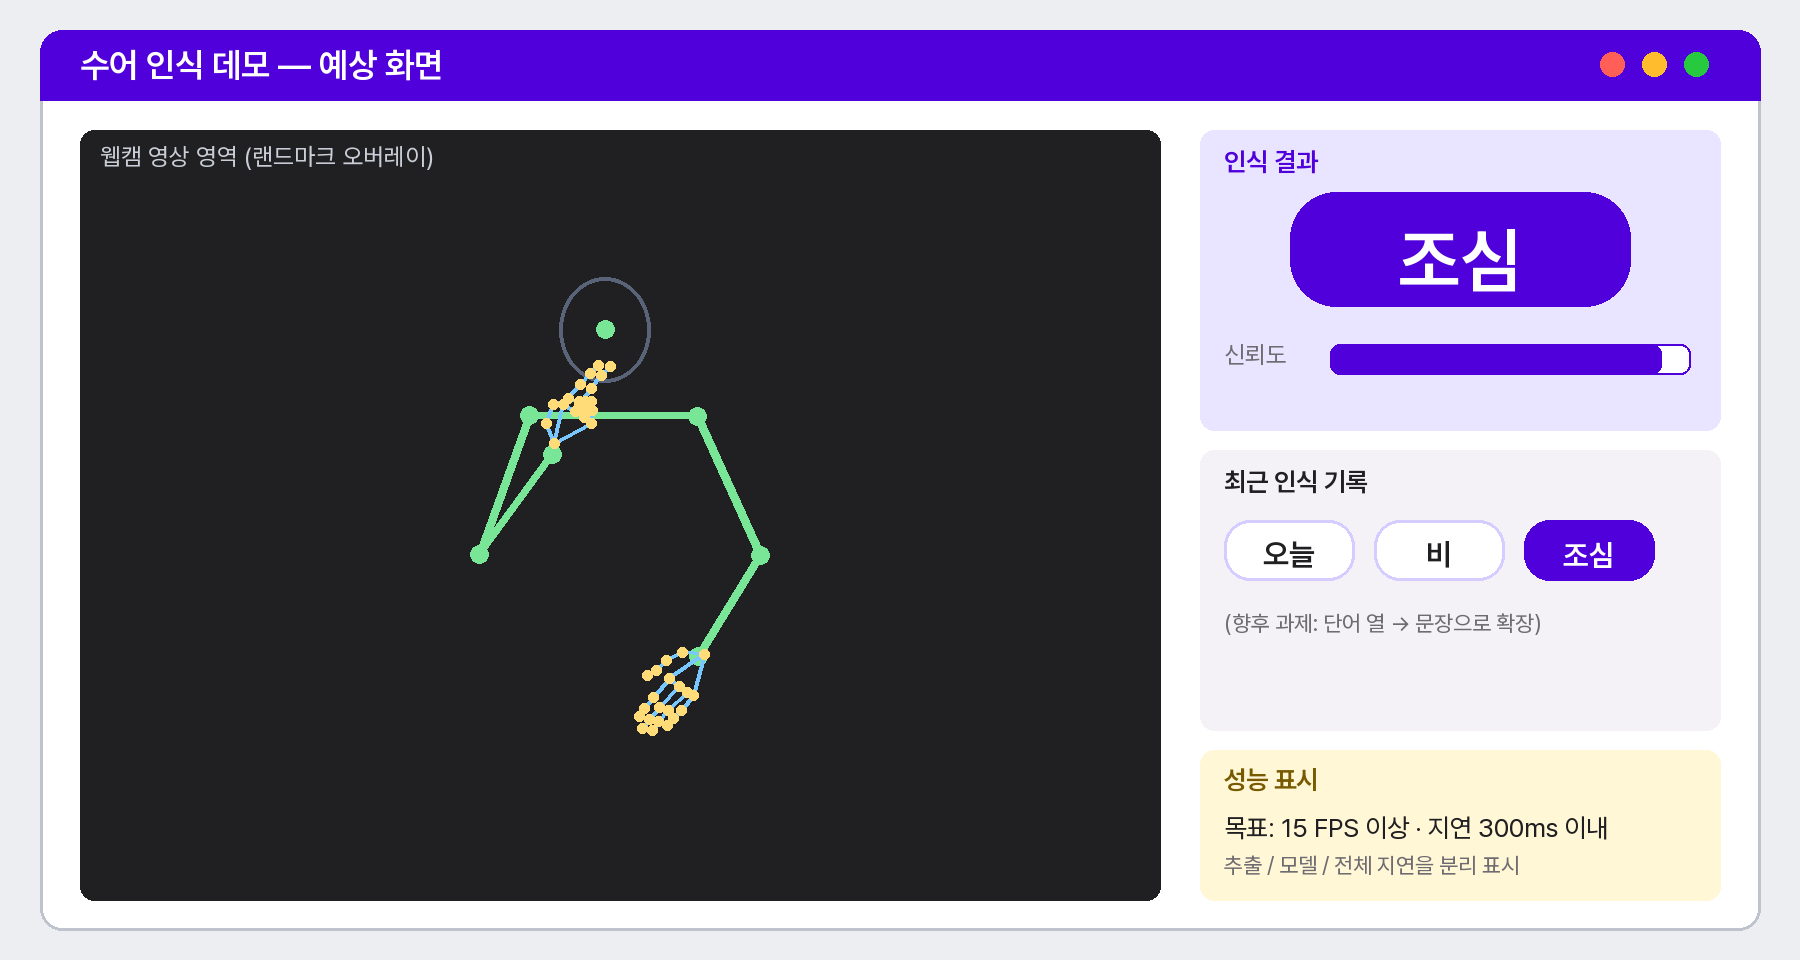
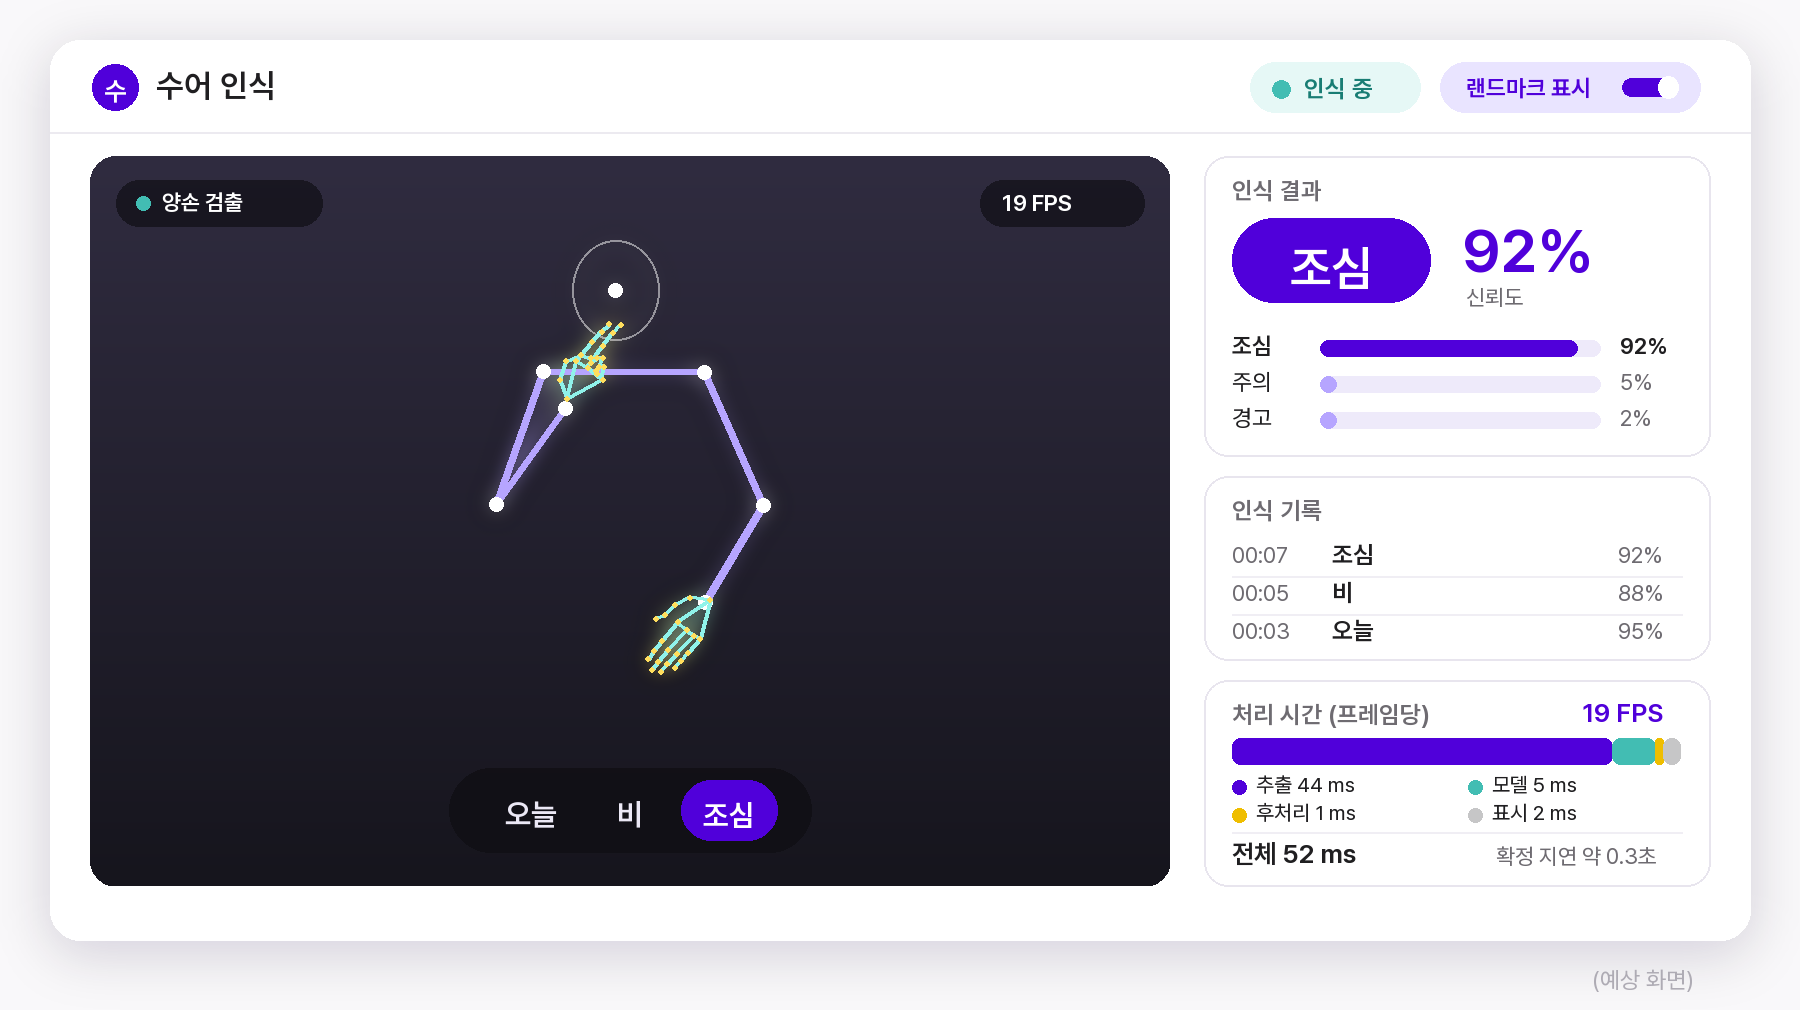
docs(sign-language): 데모 화면 그림을 실제 앱처럼 재설계
화면 안의 안내 문구를 없애고 화면 밖 흐린 괄호 각주만 남겼다. 신뢰도를 %와 상위 3개
예측으로 표시하고, 처리 시간은 추출·모델·후처리·표시로 나눈 실제 파이프라인 구조에
맞췄다. 화면 안 숫자가 예시이며 처리 시간 중 측정한 것과 가정한 것을 문서에 구분했다.

diff --git a/docs/sign-language/신청서-초안-2026-09-20.md b/docs/sign-language/신청서-초안-2026-09-20.md
@@ -182,6 +182,9 @@
 **후속 지시 반영(2026-09-20):**
 - **경고 문구 제거(사용자 지시).** 그림 안의 "※ …실제 측정값이 아님", "…얼굴 이미지는 쓰지 않음" 같은 주석을 모두 지웠다. 그러면 그림 2의 "FPS 18 · 지연 210ms", "92%"가 실제 측정값으로 오해될 수 있어서 **예시 숫자를 없애고 목표값으로 바꿨다**("목표: 15 FPS 이상 · 지연 300ms 이내", 신뢰도는 막대만). 문구 없이도 측정값으로 읽히지 않는다. 그림 4에는 "표본: 27영상·수행자 1명"과 "두 손이 떨어진 프레임 중 오차가 중앙값 근처"라는 **사실 표기는 남겼다**(경고가 아니라 데이터 설명이어서). 이것도 지우길 원하시면 지울 수 있지만 대표 프레임 선택 조건은 밝혀 두는 것을 권한다.
 - **디자인은 MAP 클라이언트를 참조(사용자 지시).** `app_colors.dart`의 색(주색 보라 `#5000DA`, 연한 `#E9E4FF`, 배경 `#F9F8FA`, 글자 `#201F21`, 오류 빨강 `#FF1751`, 노랑·청록 보조색)과 Pretendard 글꼴을 썼고, 그림 2의 인식 단어와 기록은 MAP 채팅 말풍선 스타일로 그렸다. 다른 참고 자료는 시간상 찾아보지 않았다.
+- **그림 2를 실제 앱처럼 다시 그렸다(사용자 지시, 2026-09-20).** 화면 안에는 실제 앱에 없을 문구("예상 화면", "목표:")를 두지 않고, **화면 밖 오른쪽 아래에 흐린 회색 작은 괄호 글씨 "(예상 화면)"만** 남겼다. 국내 앱 소개 이미지에서 흔히 쓰는 각주 방식이다. 신뢰도는 `92%`처럼 정량으로 보이게 하고 상위 3개 예측과 확률(조심 92%, 주의 5%, 경고 2%), 인식 기록, 처리 시간 카드를 넣었다. 디자인 참고: MAP 클라이언트의 색·글꼴·채팅 말풍선, 그리고 검색으로 본 수어 인식 데모의 공통 패턴(랜드마크 오버레이, 영상 아래 어두운 반투명 자막 바와 흰 굵은 글씨, 상위 3개 확률, 게임식 성능 오버레이). 검색은 요약 수준이고 원문은 열람하지 않았다.
+  - **화면 안의 숫자는 모두 예시다.** 92%, 5%, 2%, 00:07 등의 기록, FPS 19, 처리 시간(추출 44 · 모델 5 · 후처리 1 · 표시 2 = 전체 52 ms), 확정 지연 약 0.3초. 실제 측정값이 아니다.
+  - **처리 시간은 실제 파이프라인 구조에 맞췄다.** 프레임 하나를 처리하는 데 드는 시간을 단계별로 나눴고, 가장 큰 것이 MediaPipe 추출이다. 근거: 사전 측정에서 MediaPipe 추론이 프레임당 약 35~45 ms, 디코딩·변환이 약 6~7 ms였다(`재현-레시피.md` §4.1). 모델 5 ms·후처리 1 ms·표시 2 ms는 **측정하지 않은 가정**이다. 합계 52 ms는 19 FPS(1000÷52)와 맞췄고, 사전 측정 1프로세스 19.5~24 FPS와 같은 범위다. "확정 지연"은 슬라이딩 윈도우 간격(8프레임 ≈ 0.27초)에서 온 값이다.
 - **6주 일정표(그림 3)는 부차적이다(사용자 지시).** 시각화보다 주차별로 할 일을 구체적으로 쓰는 쪽이 중심이며, 그림 3은 넣지 않아도 된다.
 - **사용자는 웹에서 한글(한컴독스)을 쓴다.** 붙여넣기용 텍스트를 웹 편집기에 붙이면 된다. 표 변환 메뉴가 웹 편집기에 있는지는 확인하지 못했다(없으면 표를 직접 만들어 셀에 붙임).
 
